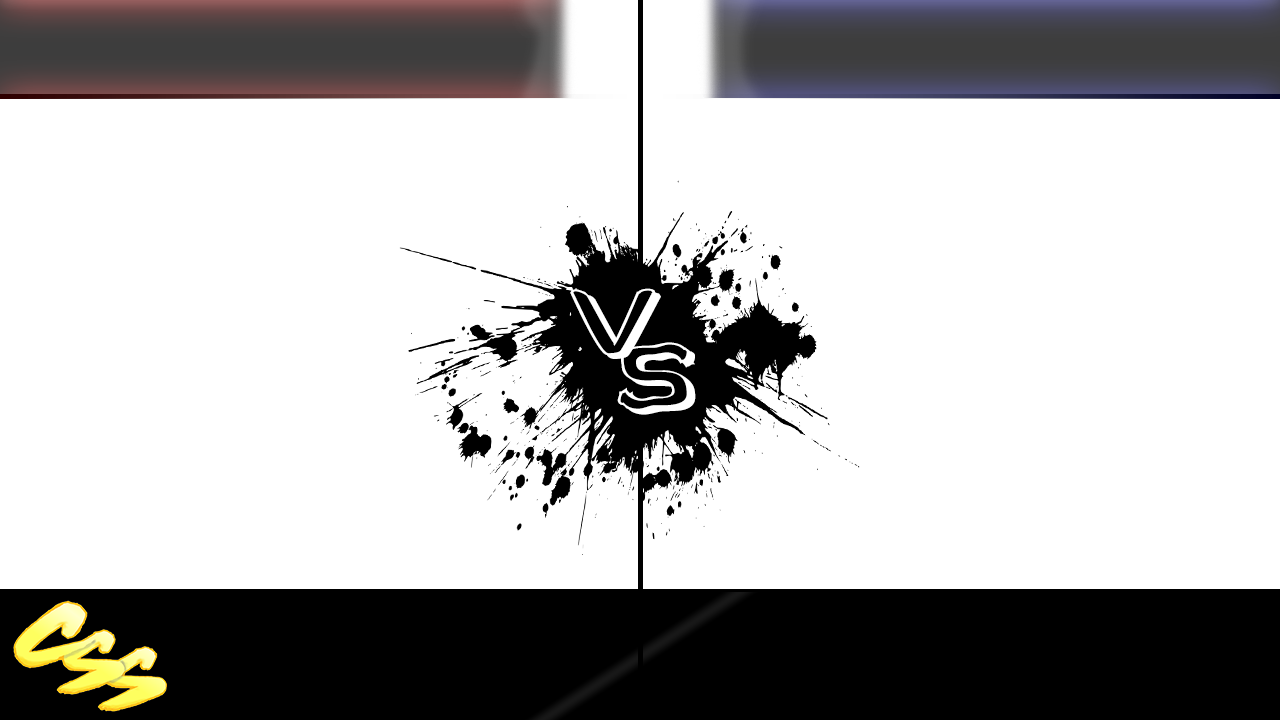
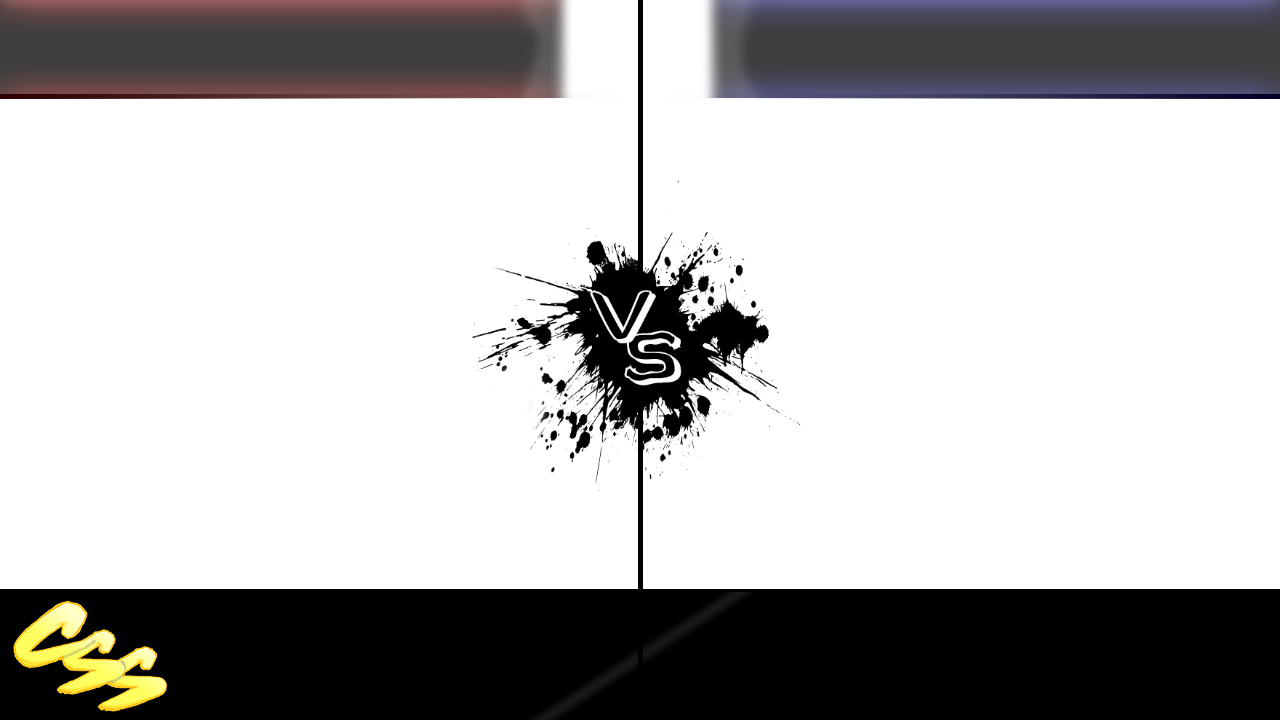
tweaked Slambana template and updated readme

Changed region(s): [[0.3125, 0.3056, 0.6562, 0.7028]]

diff --git a/README.md b/README.md
@@ -60,6 +60,8 @@ And more to come!
 
 ## Changelog
 
+v2.5+ (Check the Releases tab for further changes)
+
 v2.4.0
 
 - **Every alternate costume for every character in the game is now supported!**
